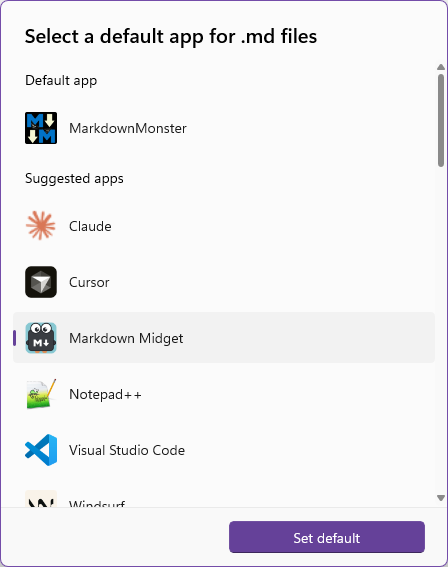
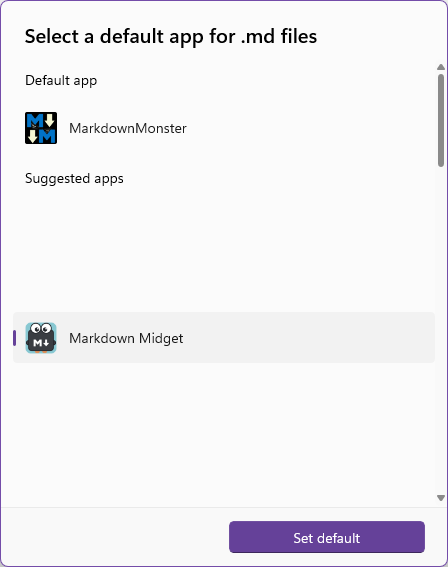
docs: rc1 update guide review fixes
- The app picker screenshot no longer shows other installed apps: the
  suggested rows other than Markdown Midget are filled with the
  picker's background.
- Registering with "Make it my default for .md files" ticked no longer
  promises which Settings page opens; both outcomes are linked.
- "Will this happen again?" claims only what the notice does: it
  speaks after an update that switches .md files away.
- The notice "usually" shows, and the fallback heading covers not
  seeing it at all.
- Image 02 is renamed for what it shows, the Default apps search.

diff --git a/docs/user/fix-md-files-after-updating-from-rc1.md b/docs/user/fix-md-files-after-updating-from-rc1.md
@@ -12,8 +12,8 @@ change it for you. It takes you to the right place in Windows Settings instead.
 
 ## The fastest way: use the notice
 
-After the update, Markdown Midget shows a notice that Windows doesn't open, or no
-longer opens, `.md` files with Markdown Midget.
+After the update, Markdown Midget usually shows a notice that Windows doesn't open,
+or no longer opens, `.md` files with Markdown Midget.
 
 ![A notice like this appears after the update. It may say "doesn't open" or "no longer opens".](images/rc1-fix-01-notice.png)
 
@@ -35,9 +35,9 @@ The Settings wording may differ slightly by Windows version.
 If Markdown Midget opens with unsaved work, a recovered document or the Help window,
 the notice waits. It appears the next time Markdown Midget opens without them.
 
-## If you closed the notice
+## If you closed the notice or didn't see it
 
-The notice appears only once. To get to the same Settings page later:
+The notice appears only once. To get to the same Settings page from Markdown Midget:
 
 1. In Markdown Midget, open **File ▸ Windows Integration ▸ Make Markdown Midget the default…**.
 2. Follow steps 2 to 4 in the previous section.
@@ -52,8 +52,11 @@ Markdown Midget says so when you click **Make it the default…**. To register i
 1. Open **File ▸ Windows Integration ▸ Register as .md editor…**.
 2. Set **Add to the Start menu** and **Add a Desktop shortcut** the way you want them.
 3. Tick **Make it my default for .md files**, then click **Register**.
-4. Click **OK** on the message that confirms it. Settings then opens on the `.md`
-   page. Choose **Markdown Midget** there to finish.
+4. Click **OK** on the message that confirms it. Settings opens. If it shows
+   Markdown Midget's page, follow steps 2 to 4 in
+   [The fastest way: use the notice](#the-fastest-way-use-the-notice). If it shows the
+   main **Default apps** page, see
+   [If Settings opens on the main Default apps page](#if-settings-opens-on-the-main-default-apps-page).
 
 If you leave **Make it my default for .md files** unticked, open
 **File ▸ Windows Integration ▸ Make Markdown Midget the default…** after registering
@@ -75,7 +78,7 @@ can't open Settings at all, it tells you, and you can open
 - **Windows 10:** Click **Choose default apps by file type**. Scroll to **.md**, click
   the app next to it, and select **Markdown Midget**.
 
-![The Default apps page with .md typed under "Set a default for a file type or link type"](images/rc1-fix-02-settings-app-page.png)
+![The Default apps page with .md typed under "Set a default for a file type or link type"](images/rc1-fix-02-default-apps-search.png)
 
 The wording may differ slightly by Windows version.
 
@@ -92,6 +95,6 @@ The wording may differ slightly by Windows version.
 No. From 1.0.0-rc2 on, updating Markdown Midget or registering it again keeps the app
 you chose for `.md` files. This one time, the update to rc2 was done by rc1.
 
-If `.md` files ever stop opening in Markdown Midget again, the first start after the
-next update tells you, with the same **Make it the default…** button. If you ticked
+If an update ever switches `.md` files away from Markdown Midget again, the first start
+after that update tells you, with the same **Make it the default…** button. If you ticked
 **Don't show this again**, the notice stays off.
